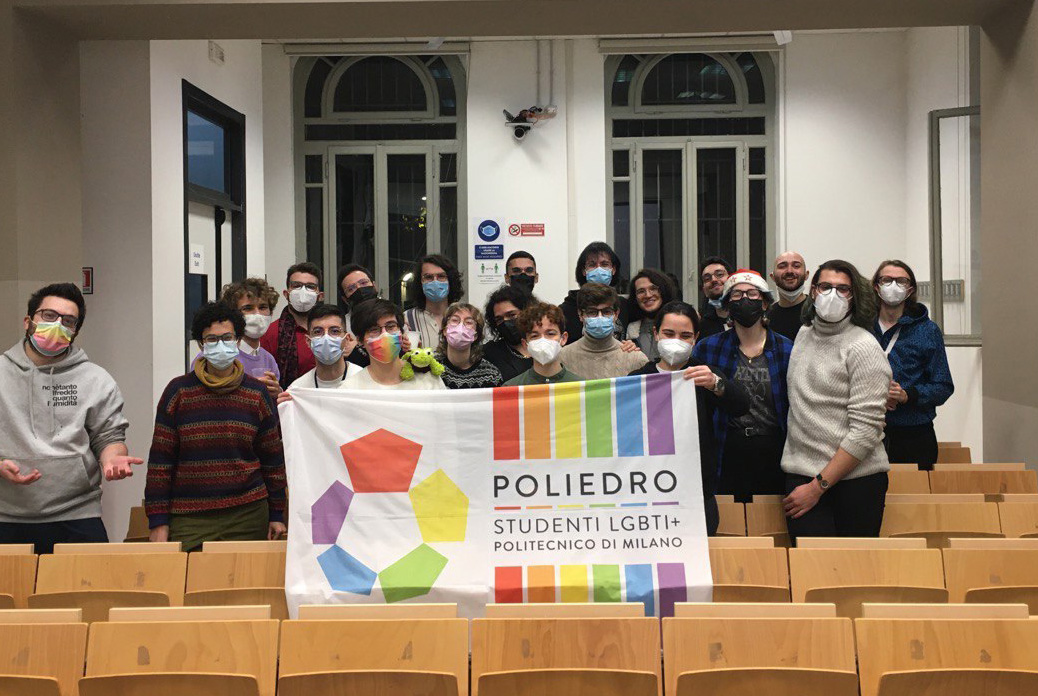
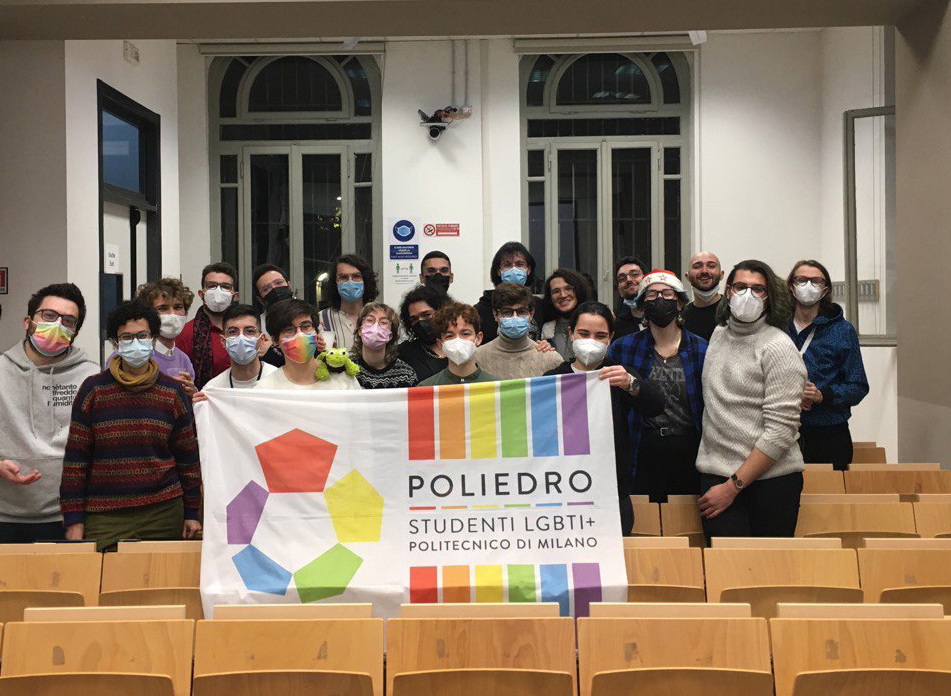
fixed cropping of resources

diff --git a/ingegneria.html b/ingegneria.html
@@ -1,0 +1,123 @@
+<!DOCTYPE html>
+<html lang="en">
+<head>
+    <meta charset="UTF-8">
+    <meta http-equiv="X-UA-Compatible" content="IE=edge">
+    <meta name="viewport" content="width=device-width, initial-scale=1, minimum-scale=1">
+    <title>Document</title>
+    <link rel="stylesheet" href="/styles/common.css">
+    <link rel="stylesheet" href="/styles/index.css">
+    
+</head>
+<style>
+    #net{
+        overflow: hidden;
+        background-image: linear-gradient(5deg, #e73c7e, #23a6d5, #23d5ab, #02a741, #fae952f5, #ec7000, #ff110e, #e73c7e, #23a6d5, #23d5ab);
+        animation: gradient 60s ease infinite ;
+        background-size: 20000%;
+    }
+    .net{
+        stroke:#FFFFFF50;
+        stroke-width: 0.2px;
+        fill: transparent;
+    }
+    @keyframes gradient {
+        0%,100% {
+            background-position: 0 0;
+        }
+        50% {
+            background-position: 100% 0%;
+        }
+    }
+</style>
+
+<body style="margin: 0px;">
+    <div id="net">
+        <svg id="svg-net" height="max(100vh,100vw)" width="max(100vh,100vw)" viewbox="0 0 100 100" >
+        </svg>
+    </div>
+    
+    
+    
+    <div id="content-container">    
+        <div id="title" class="index-section">
+            <svg id="logo" width="703.8" height="462.2"
+            viewBox="0 0 703.8 462.2">
+            <filter id="inset-shadow" x="-50%" y="-50%" width="200%" height="200%">
+                <feComponentTransfer in=SourceAlpha>
+                    <feFuncA type="table" tableValues="1 0" />
+                </feComponentTransfer>
+                <feGaussianBlur stdDeviation="4"/>
+                <feOffset dx="0" dy="5" result="offsetblur"/>
+                <feFlood flood-color="rgb(0, 0, 0)" result="color"/>
+                <feComposite in2="offsetblur" operator="in"/>
+                <feComposite in2="SourceAlpha" operator="in" />
+                <feMerge>
+                    <feMergeNode in="SourceGraphic" />
+                    <feMergeNode />
+                </feMerge>
+            </filter>
+            <style type="text/css">
+                .st0 {
+                    fill: #FFFFFF;
+                }
+            </style>
+            <path class="st0" d="M0,301.5c-0.1-2.3,1.7-4.7,4-5.1l51-7.2c23.2-3.3,43.1,15.7,46.6,40.3
+            c4.3,30.9-16.3,61-46.4,65.2l-19,2.7V453c0.1,2.4-1.9,4.8-4,5.1l-28.3,4c-2.3,0.3-3.8-1.6-3.9-3.9L0,301.5z M53.1,360.6
+            c8.1-1.1,14.7-11.5,13-23.4c-1.1-8.1-6.7-13.7-12.9-12.9l-16.9,2.4l0.1,36.2L53.1,360.6z M126.3,283.8c-0.1-2.3,1.7-4.7,3.8-5
+            l62.7-8.8c24.4-3.4,43.6,14,47,37.9c3.5,24.8-7.7,47.7-30.6,58.5l28.5,56.1c1.6,2.9,0,6.9-3.5,7.3l-29.9,4.2
+            c-1.6,0.2-3.1-0.5-3.5-1.6l-27.7-58.8l-10.2,1.4v60.4c0.1,2.4-1.7,4.7-3.8,5l-28.8,4c-2.3,0.3-4-1.6-3.9-4L126.3,283.8z
+            M188.1,341.3c10.9-1.5,17.4-12.9,15.8-24c-1.1-8.1-6.3-14.3-14.6-13.1l-26.7,3.7v36.9L188.1,341.3z M270.6,263.5
+            c-0.1-2.3,1.7-4.7,3.8-5l29-4.1c2.1-0.3,3.8,1.6,3.9,3.9V415c0.1,2.4-1.7,4.7-3.8,5l-29,4.1c-2.1,0.3-3.8-1.6-3.9-3.9V263.5z
+            M346,252.9c-0.1-2.3,1.7-4.7,3.8-5l51.7-7.3c36.7-5.2,67.8,25.7,72.8,61.7c7.1,50.4-23.8,97.1-72.7,103.9l-52,7.3
+            c-2.1,0.3-3.8-1.6-3.6-4V252.9z M399.8,371.4c23.9-3.4,40.4-30.5,36.2-60.9c-3.1-21.8-17.3-37.6-36.1-34.9l-17.4,2.4v95.9
+            L399.8,371.4z M503.4,230.8c-0.1-2.3,1.7-4.7,3.8-5l87.5-12.3c2.3-0.3,4,1.6,4.1,3.9l-0.2,25.8c0.1,2.3-1.5,4.7-3.8,5l-55.2,7.8
+            l-0.1,29.4l45-6.3c2.1-0.3,4,1.6,4.1,3.9l-0.1,25.8c-0.1,2.6-1.9,4.8-4,5.1l-44.8,6.3v31.9l55.2-7.8c2.3-0.3,3.8,1.6,3.9,3.9
+            l0.1,25.8c0.1,2.4-1.7,4.7-4,5.1l-87.5,12.3c-2.3,0.3-4-1.6-3.9-3.9L503.4,230.8z"/>
+            
+            <path class="st0" d="M0.4,102.8c-0.1-2.3,1.7-4.7,4-5.1l51-7.2c23.2-3.3,43.2,15.7,46.6,40.3c4.3,30.9-16.3,61-46.5,65.2l-19,2.7
+            v55.6c0.1,2.4-1.9,4.8-4,5.1l-28.3,4c-2.3,0.3-3.8-1.6-3.9-4L0.4,102.8z M53.4,161.9c8.1-1.1,14.7-11.5,13-23.4
+            c-1.1-8.1-6.7-13.7-12.9-12.9L36.6,128l0.1,36.2L53.4,161.9z M190.7,69.2c36-5.1,69.3,23.4,75,63.5c7.3,52.2-25.2,99.9-74,106.7
+            c-35.7,5-69.2-22.9-74.9-62.8C109.4,124.2,142.4,76,190.7,69.2z M228.2,142.5c-3.1-21.8-18.6-38.1-37.2-35.5
+            c-22.5,3.2-40.9,30.6-36.9,59.4c3,21.6,18.6,37.9,36.9,35.3C214,198.5,232.2,171.3,228.2,142.5L228.2,142.5z M294.6,61.5
+            c-0.1-2.3,1.7-4.7,4-5.1l28.8-4c2.1-0.3,3.8,1.6,3.9,3.9v126.4l47.3-6.7c2.3-0.3,3.8,1.6,3.9,4l0.1,25.8c0.1,2.4-1.7,4.7-4,5.1
+            l-79.8,11.2c-2.3,0.3-4-1.6-4.1-3.9L294.6,61.5z M403.9,46.1c-0.1-2.3,1.7-4.7,3.8-5l29-4.1c2.1-0.3,3.8,1.6,3.9,4v156.7
+            c0.1,2.4-1.7,4.7-3.8,5l-29,4.1c-2.1,0.3-3.8-1.6-3.9-4V46.1z M470,192.8l22.6-162.2c0.4-2.2,1.3-4,3.9-4.3l3.2-0.5
+            c1.4-0.2,2.9,0.5,3.6,1.9l48.2,95.5l0.5-0.1l51.8-109.6c0.7-1.5,1.5-2.6,3.6-2.9l3.5-0.5c1.6-0.2,3.2,1.2,3.5,3.3l23.1,155.8
+            c0.4,3-1.8,5.5-4.2,5.8l-28.5,4c-1.9,0.3-3.7-1.4-4-3.2l-7.5-72.1c-0.2,0-0.2,0-0.5,0.1L559,185.2c-0.7,1.5-2,2.9-3.6,3.1l-3.7,0.5
+            c-1.6,0.2-2.9-0.8-3.6-2.1l-34-71.9c-0.5,0.1-0.2,0-0.5,0.1l-7.1,74.1c-0.2,1.9-1.6,4-4.1,4.4l-28.5,4
+            C471.6,197.8,469.5,195.9,470,192.8L470,192.8z M667.1,9.1c-0.1-2.3,1.7-4.7,3.8-5l29-4.1c2.1-0.3,3.8,1.6,3.9,4v156.7
+            c0.1,2.4-1.7,4.7-3.8,5l-29,4.1c-2.1,0.3-3.8-1.6-3.9-4V9.1z"/>
+            <path class="st0" filter="url(#inset-shadow)"  id="pride-inside-shadow"  style="transition: opacity 1.5s; opacity: 0" d="M0,301.5c-0.1-2.3,1.7-4.7,4-5.1l51-7.2c23.2-3.3,43.1,15.7,46.6,40.3
+            c4.3,30.9-16.3,61-46.4,65.2l-19,2.7V453c0.1,2.4-1.9,4.8-4,5.1l-28.3,4c-2.3,0.3-3.8-1.6-3.9-3.9L0,301.5z M53.1,360.6
+            c8.1-1.1,14.7-11.5,13-23.4c-1.1-8.1-6.7-13.7-12.9-12.9l-16.9,2.4l0.1,36.2L53.1,360.6z M126.3,283.8c-0.1-2.3,1.7-4.7,3.8-5
+            l62.7-8.8c24.4-3.4,43.6,14,47,37.9c3.5,24.8-7.7,47.7-30.6,58.5l28.5,56.1c1.6,2.9,0,6.9-3.5,7.3l-29.9,4.2
+            c-1.6,0.2-3.1-0.5-3.5-1.6l-27.7-58.8l-10.2,1.4v60.4c0.1,2.4-1.7,4.7-3.8,5l-28.8,4c-2.3,0.3-4-1.6-3.9-4L126.3,283.8z
+            M188.1,341.3c10.9-1.5,17.4-12.9,15.8-24c-1.1-8.1-6.3-14.3-14.6-13.1l-26.7,3.7v36.9L188.1,341.3z M270.6,263.5
+            c-0.1-2.3,1.7-4.7,3.8-5l29-4.1c2.1-0.3,3.8,1.6,3.9,3.9V415c0.1,2.4-1.7,4.7-3.8,5l-29,4.1c-2.1,0.3-3.8-1.6-3.9-3.9V263.5z
+            M346,252.9c-0.1-2.3,1.7-4.7,3.8-5l51.7-7.3c36.7-5.2,67.8,25.7,72.8,61.7c7.1,50.4-23.8,97.1-72.7,103.9l-52,7.3
+            c-2.1,0.3-3.8-1.6-3.6-4V252.9z M399.8,371.4c23.9-3.4,40.4-30.5,36.2-60.9c-3.1-21.8-17.3-37.6-36.1-34.9l-17.4,2.4v95.9
+            L399.8,371.4z M503.4,230.8c-0.1-2.3,1.7-4.7,3.8-5l87.5-12.3c2.3-0.3,4,1.6,4.1,3.9l-0.2,25.8c0.1,2.3-1.5,4.7-3.8,5l-55.2,7.8
+            l-0.1,29.4l45-6.3c2.1-0.3,4,1.6,4.1,3.9l-0.1,25.8c-0.1,2.6-1.9,4.8-4,5.1l-44.8,6.3v31.9l55.2-7.8c2.3-0.3,3.8,1.6,3.9,3.9
+            l0.1,25.8c0.1,2.4-1.7,4.7-4,5.1l-87.5,12.3c-2.3,0.3-4-1.6-3.9-3.9L503.4,230.8z"/>
+            
+            <path class="st0" id="polimi-inside-shadow"  filter="url(#inset-shadow)" style="transition: opacity 1.5s; opacity: 0" d="M0.4,102.8c-0.1-2.3,1.7-4.7,4-5.1l51-7.2c23.2-3.3,43.2,15.7,46.6,40.3c4.3,30.9-16.3,61-46.5,65.2l-19,2.7
+            v55.6c0.1,2.4-1.9,4.8-4,5.1l-28.3,4c-2.3,0.3-3.8-1.6-3.9-4L0.4,102.8z M53.4,161.9c8.1-1.1,14.7-11.5,13-23.4
+            c-1.1-8.1-6.7-13.7-12.9-12.9L36.6,128l0.1,36.2L53.4,161.9z M190.7,69.2c36-5.1,69.3,23.4,75,63.5c7.3,52.2-25.2,99.9-74,106.7
+            c-35.7,5-69.2-22.9-74.9-62.8C109.4,124.2,142.4,76,190.7,69.2z M228.2,142.5c-3.1-21.8-18.6-38.1-37.2-35.5
+            c-22.5,3.2-40.9,30.6-36.9,59.4c3,21.6,18.6,37.9,36.9,35.3C214,198.5,232.2,171.3,228.2,142.5L228.2,142.5z M294.6,61.5
+            c-0.1-2.3,1.7-4.7,4-5.1l28.8-4c2.1-0.3,3.8,1.6,3.9,3.9v126.4l47.3-6.7c2.3-0.3,3.8,1.6,3.9,4l0.1,25.8c0.1,2.4-1.7,4.7-4,5.1
+            l-79.8,11.2c-2.3,0.3-4-1.6-4.1-3.9L294.6,61.5z M403.9,46.1c-0.1-2.3,1.7-4.7,3.8-5l29-4.1c2.1-0.3,3.8,1.6,3.9,4v156.7
+            c0.1,2.4-1.7,4.7-3.8,5l-29,4.1c-2.1,0.3-3.8-1.6-3.9-4V46.1z M470,192.8l22.6-162.2c0.4-2.2,1.3-4,3.9-4.3l3.2-0.5
+            c1.4-0.2,2.9,0.5,3.6,1.9l48.2,95.5l0.5-0.1l51.8-109.6c0.7-1.5,1.5-2.6,3.6-2.9l3.5-0.5c1.6-0.2,3.2,1.2,3.5,3.3l23.1,155.8
+            c0.4,3-1.8,5.5-4.2,5.8l-28.5,4c-1.9,0.3-3.7-1.4-4-3.2l-7.5-72.1c-0.2,0-0.2,0-0.5,0.1L559,185.2c-0.7,1.5-2,2.9-3.6,3.1l-3.7,0.5
+            c-1.6,0.2-2.9-0.8-3.6-2.1l-34-71.9c-0.5,0.1-0.2,0-0.5,0.1l-7.1,74.1c-0.2,1.9-1.6,4-4.1,4.4l-28.5,4
+            C471.6,197.8,469.5,195.9,470,192.8L470,192.8z M667.1,9.1c-0.1-2.3,1.7-4.7,3.8-5l29-4.1c2.1-0.3,3.8,1.6,3.9,4v156.7
+            c0.1,2.4-1.7,4.7-3.8,5l-29,4.1c-2.1,0.3-3.8-1.6-3.9-4V9.1z"/>
+        </svg>
+    </div>
+</div>
+
+<script src="scripts/ingegneria.js"></script>
+</body>
+</html>

diff --git a/scripts/ingegneria.js b/scripts/ingegneria.js
@@ -1,0 +1,18 @@
+
+function updateDom(n){
+    var paths = "";
+    sin = Math.sin((n*0.01))*100;
+
+    for(let i=-10; i<=110; i+=10){
+        a = i+"";
+        b = (33+sin)+"";
+        c = (66+sin)+""; 
+        paths += 
+        '<path class="net net-horizontal" d="M 0,'+ a +' c ' +b + ',0 ' + c +',20 100,10 "></path>'+
+        '<path class="net net-vertical" d="M '+ a +',0 c 20,'+b+' 0,'+c+' 10,100 "></path>';
+    }
+    document.getElementById("svg-net").innerHTML=paths;
+    setTimeout(updateDom, 100, n+1);
+}
+n = 0;
+updateDom(n)
